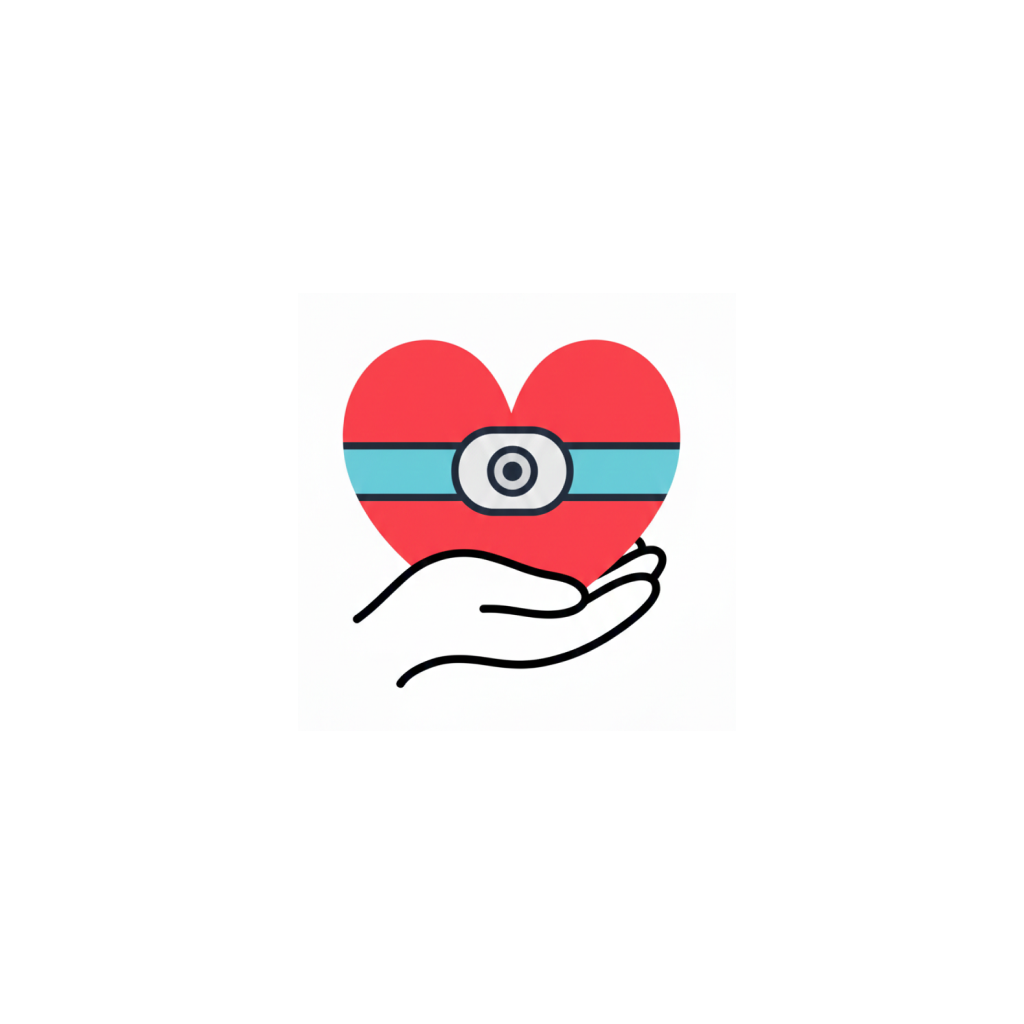
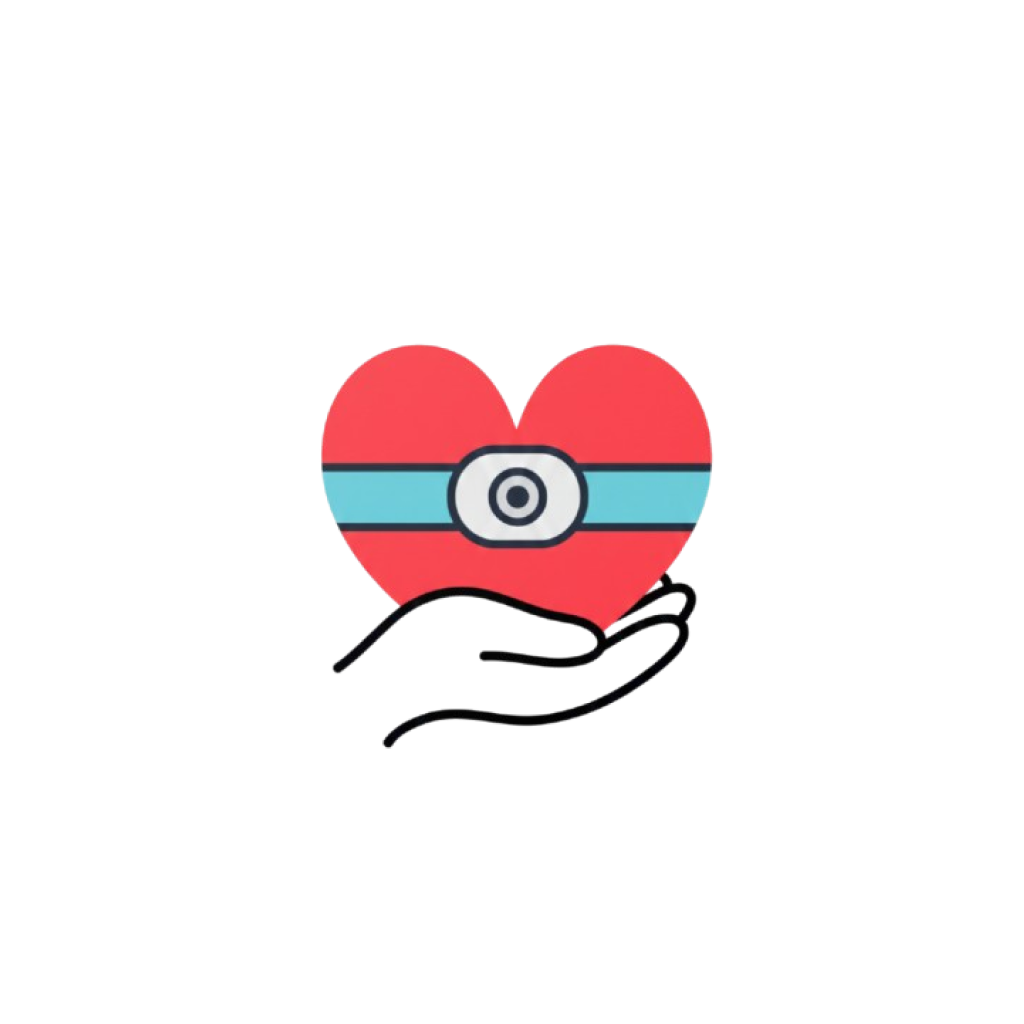
Versão 2.4
- Aumento dos icons do Android
- Mudança no log de cancelar notificação

Changed region(s): [[0.3125, 0.3125, 0.7188, 0.75], [0.3438, 0.3438, 0.375, 0.375]]

diff --git a/scripts/notificacoes.js b/scripts/notificacoes.js
@@ -60,7 +60,7 @@ export const agendarNotificacao = async ( titulo, corpo, dataHora ) => {
 export const cancelarNotificacao = async ( notificationId ) => {
   if (!notificationId) return;
   await Notifications.cancelScheduledNotificationAsync(notificationId);
-  console.log('Notificação cancelada')
+  console.log(`Notificação de id ${notificationId} cancelada`);
 };
 
 
